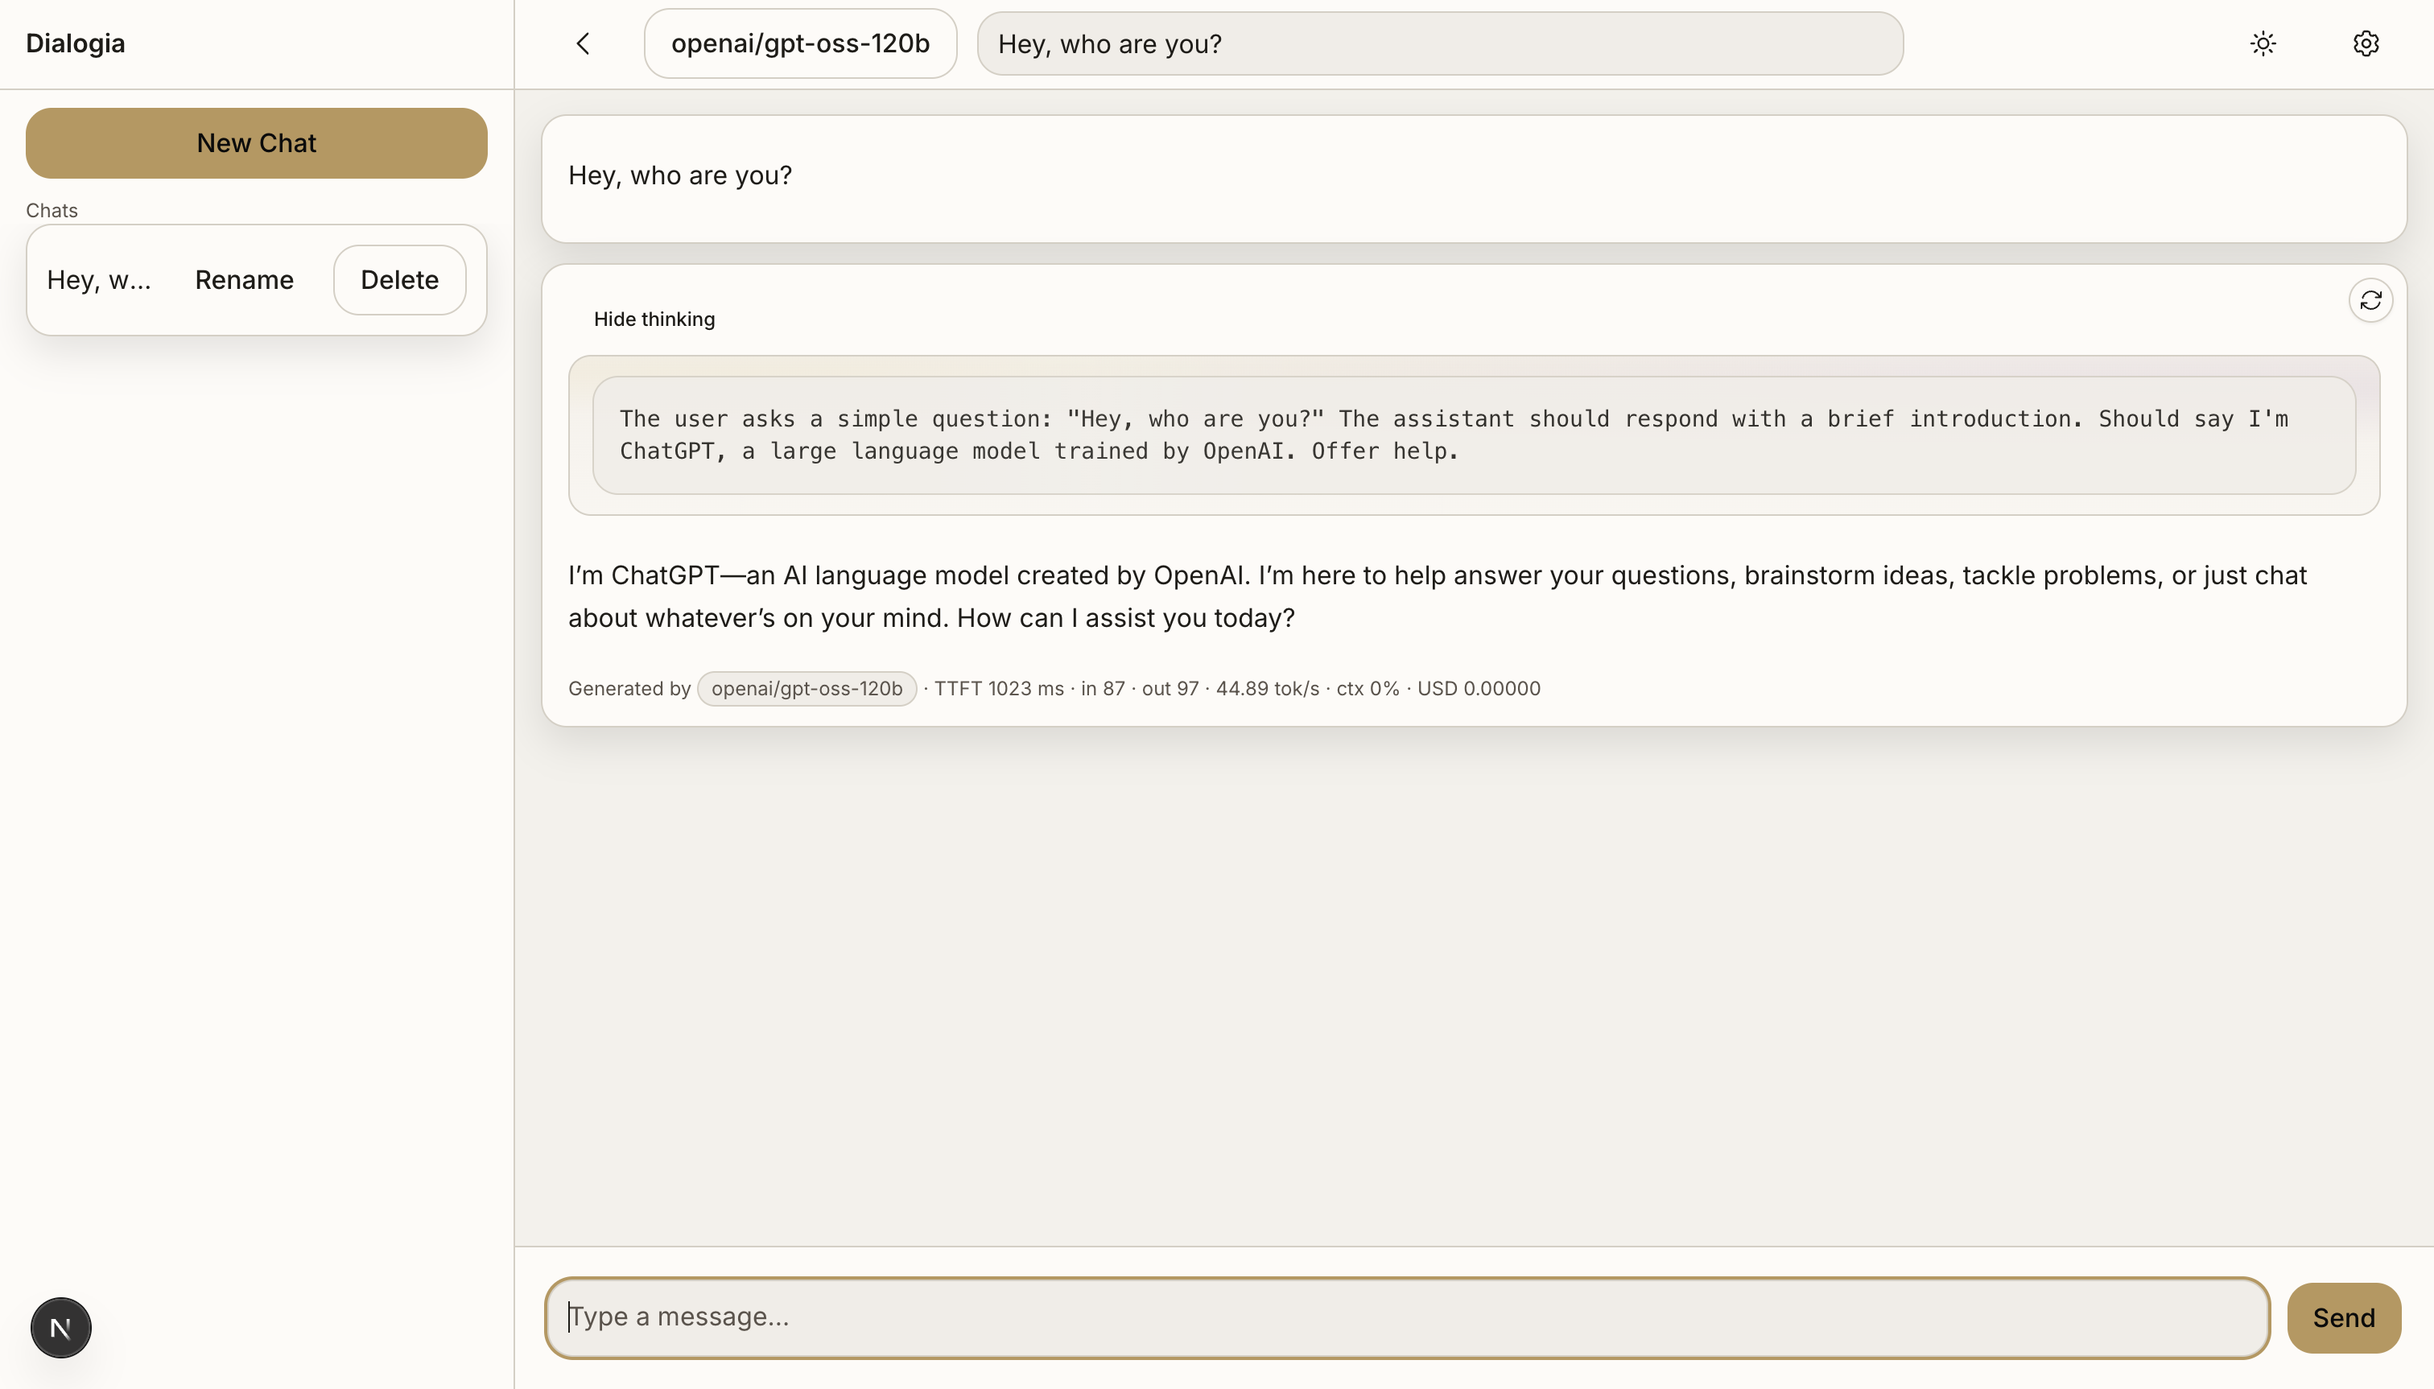
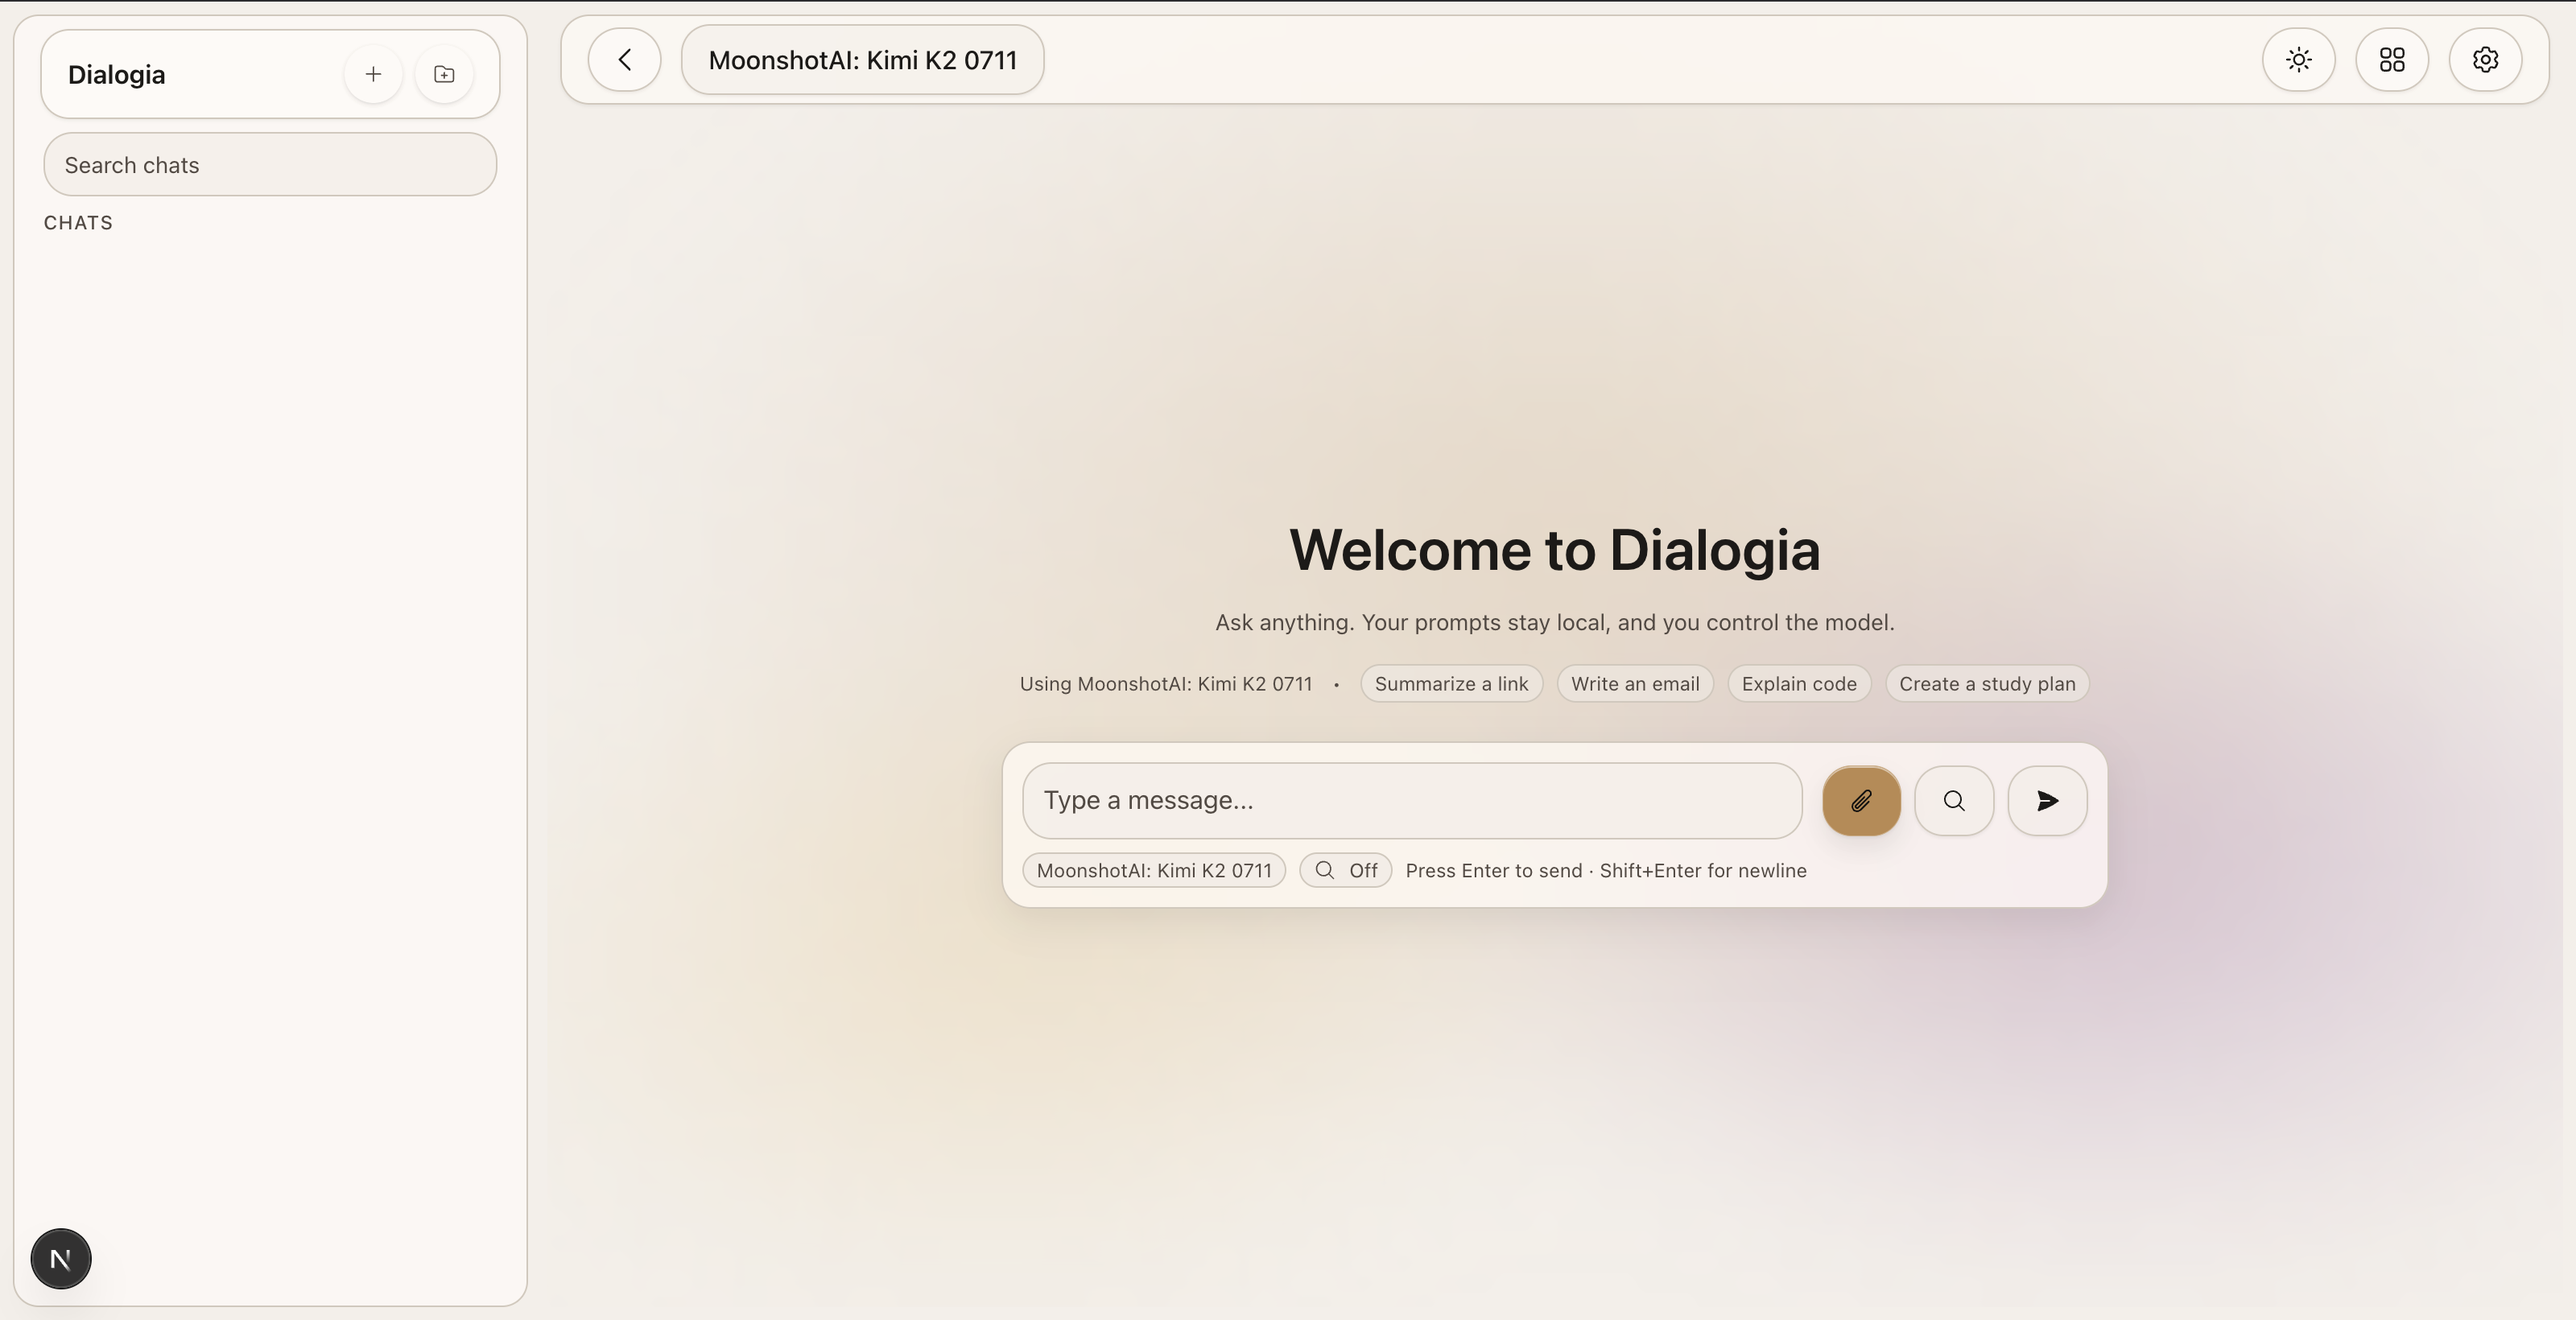
Update and add UI screenshots in README and assets
Added new screenshots for chat and image generation features, and updated existing images for front page, model selection, and settings. Updated the README to include the new images for better project documentation and visual reference.

diff --git a/README.md b/README.md
@@ -17,6 +17,10 @@ Local-first, privacy-focused multi-model chat UI for OpenRouter.
 
 ![Front page](assets/frontpage.png)
 
+![Chat](assets/chat.png)
+
+![Image generation](assets/image-gen.png)
+
 ![Model selection](assets/model-selection.png)
 
 ![Settings](assets/settings.png)
